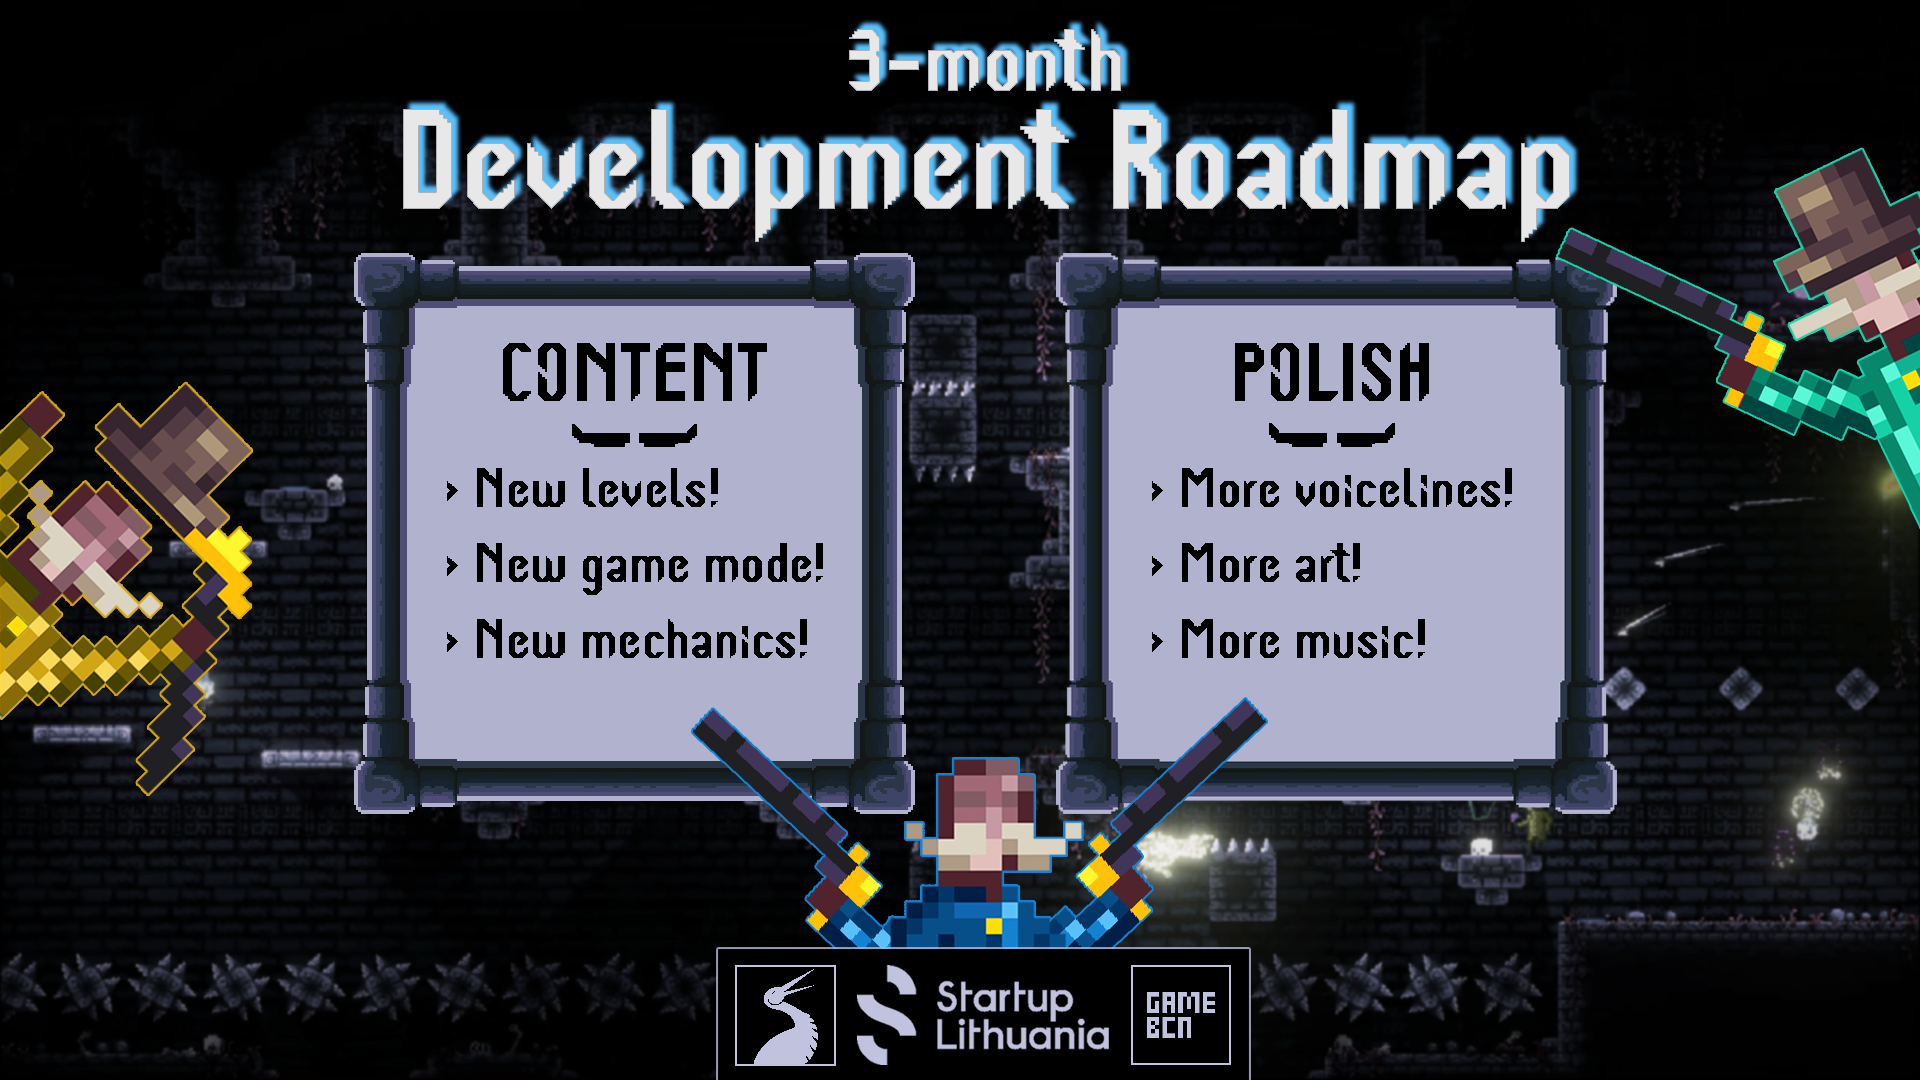
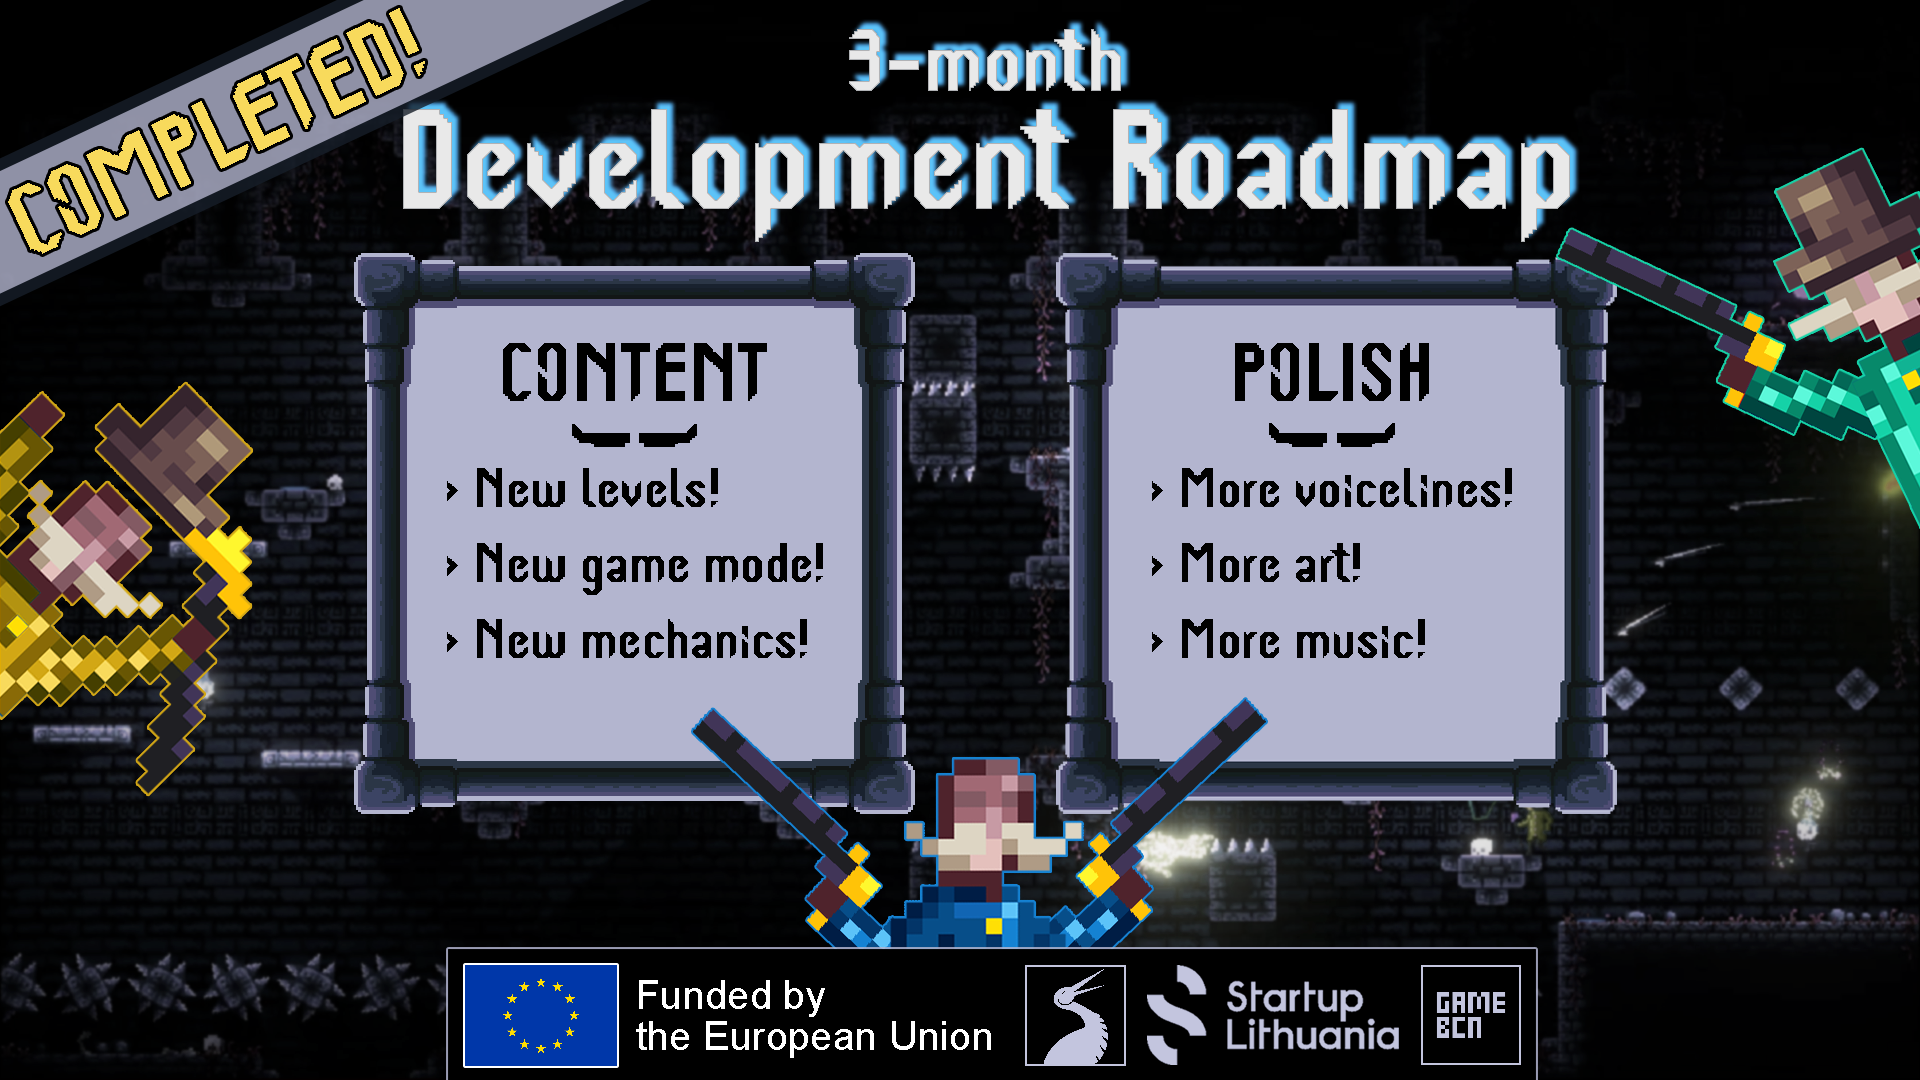
Add funding section

Changed region(s): [[0.2188, 0.8861, 0.8125, 1.0], [0.0, 0.0, 0.3438, 0.275]]

diff --git a/index.html b/index.html
@@ -191,12 +191,12 @@ a{
 {
   color:cyan;
   font-weight:700;
-  font-size:25px;
+  font-size:30px;
 }
 .additional-info-container .columns.content .content-container p
 {
   font-weight:400;
-  font-size:16px;
+  font-size:18px;
   text-align:justify;
 }
 .rounded-box{
@@ -433,7 +433,7 @@ a{
                   MAYHEM
                </h5>
                <p style="width: 95%; margin:auto">
-                Get Sticked! is a couch co-op experience in which you and your friends will race to escape a deadly temple shrouded in darkness. Every surface can hide lethal traps which become visible on contact.
+                Manners Be Damned! is a couch co-op experience in which you and your friends will race to escape a deadly temple shrouded in darkness. Every surface can hide lethal traps which become visible on contact.
                </p>
             </div>
          </div>
@@ -480,6 +480,24 @@ a{
             <img src="./paragraph3.gif" alt="First-slide-BG" border="0" width="80%">
          </div>
       </section>
+      <section class="additional-info-container">
+         <div class="columns game-art-container">
+            <img src="./paragraph4.png" alt="First-slide-BG" border="0" width="80%">
+         </div>
+         <div class="columns content">
+            <div class="content-container">
+               
+               <h5 style="color: #ffb300;">
+                  Funded by the European Union
+               </h5>
+               <p style="width: 95%; margin:auto">
+                  With "Manners Be Damned!", we set out to create a party platformer that solves the problem of varying skill levels of players by making use of smart level design and creative equalization mechanics. 
+
+                  The project is being funded by the European Union, and we're extremely grateful to Startup Lithuania and GameBCN for making that possible.
+               </p>
+            </div>
+         </div>
+      </section>
    </main>
 
    <footer class="home-footer">
@@ -517,8 +535,8 @@ a{
          </a>
       </div>
       <div class="colored-image-footer" style="align-items: center; vertical-align: middle; background-color:#f3a737">
-         <img src="/Logo_GameTech.png" style="height:100px">
-         <img src="/Logo_EU.png" style="height:100px">
+         <img src="/Logo_GameTech.png" style="height:70px">
+         <img src="/Logo_EU.png" style="height:70px">
       </div>
       <div class="final-footer">
          <div>
